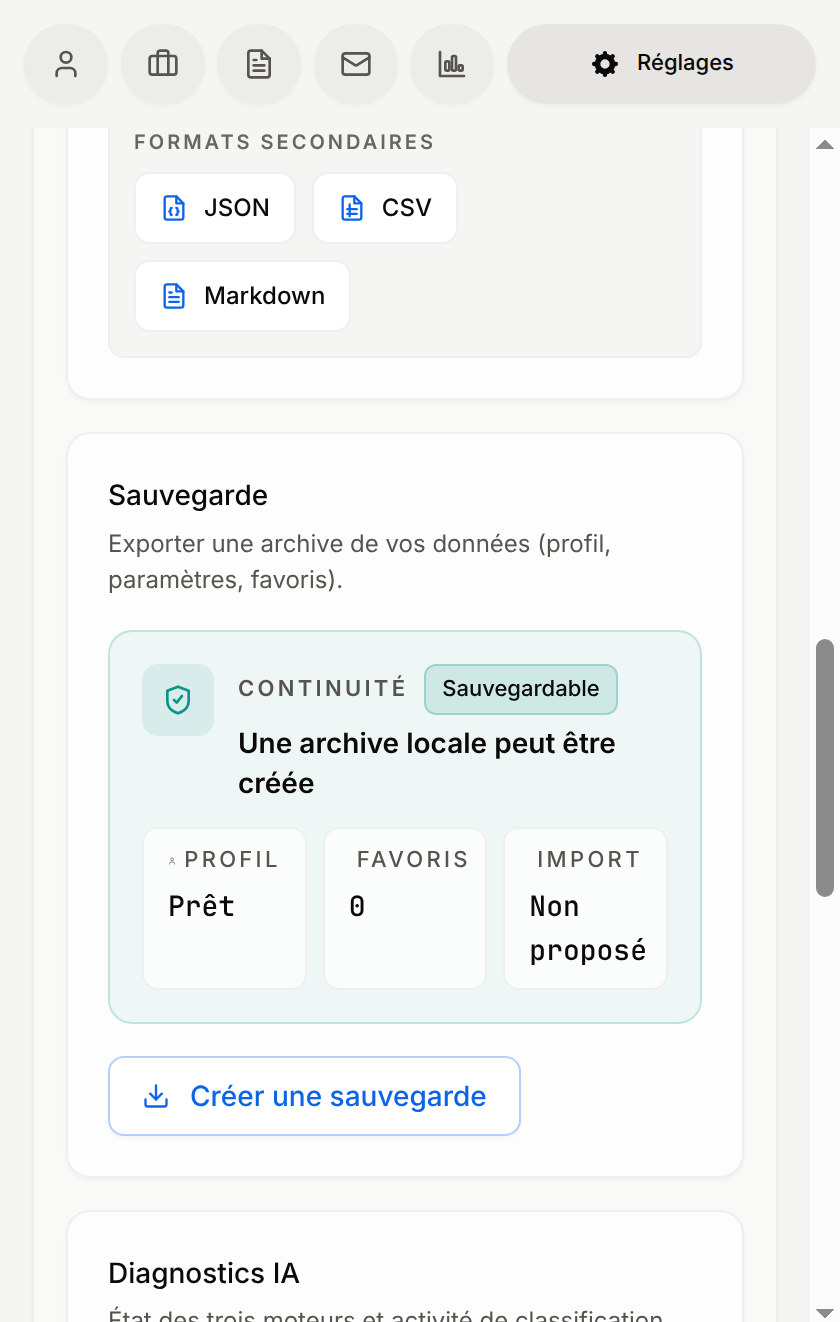
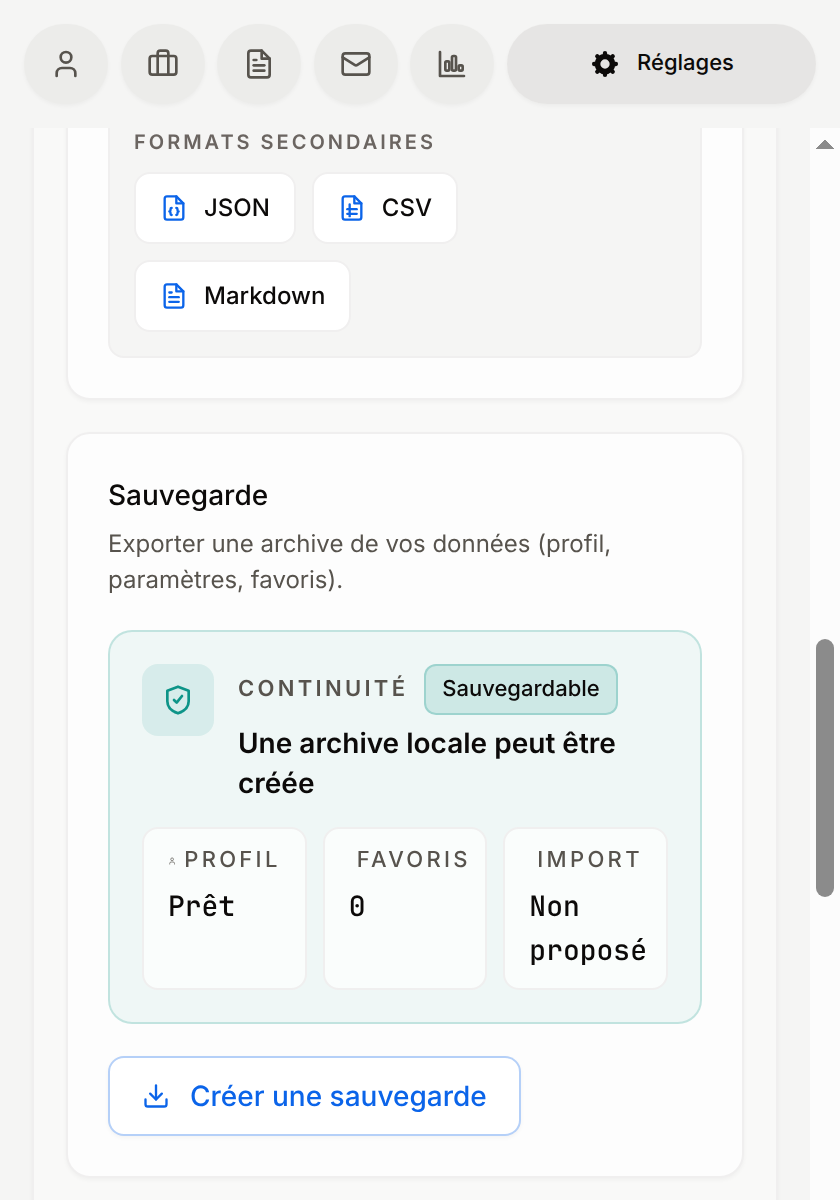
fix(store-screenshots): crop the 05b panel above Diagnostics IA (#443)
The committed 2× source is now 840×1200, so Diagnostics IA is not in the
file. Direction A still writes to docs/store-screenshots/0.2.5-dirA/ and
recomposition of that screen matches the existing final byte for byte.

diff --git a/scripts/store-screenshots/compose_final.py b/scripts/store-screenshots/compose_final.py
@@ -4,9 +4,11 @@
 Direction B (default, ``pnpm store-screenshots:final``) writes the approved
 1280×800 finals to ``docs/store-screenshots/0.2.5/final/``, plus ``board.png``.
 
-Direction A (``pnpm store-screenshots:final:a``) writes the design-spec
-frames to ``docs/store-screenshots/0.2.5-dirA/``. It reads the 2× panel
-crops in ``0.2.5-dirA/panel/`` (840×1322). Loupe ``source`` rects are 1×
+Direction A (``pnpm store-screenshots:final:a``) writes its output frames
+to ``docs/store-screenshots/0.2.5-dirA/``. It reads the 2× panel crops in
+``docs/store-screenshots/0.2.5-dirA/panel/``. Full panels are 840×1322.
+``05b-local-privacy.png`` is stored already cropped to 840×1200 so
+« Diagnostics IA » is not in the file. Loupe ``source`` rects are 1×
 coordinates and are multiplied by the detected input scale. A 2× panel uses
 panel scale 0.475 (0.95/2) and loupe scale 0.65 (1.3/2), which keeps the
 same rendered sizes as 1×.
@@ -387,23 +389,31 @@ def require_mapping(spec: dict[str, object], key: str) -> dict[str, object]:
     return value
 
 
-def detect_input_scale(image: Image.Image) -> int:
-    """Return the integer pixel scale of a panel crop (1× is 420×661, 2× is 840×1322)."""
-    logical_w, logical_h = LOGICAL_PANEL
+def detect_input_scale(
+    image: Image.Image,
+    logical_heights: tuple[int, ...] = (LOGICAL_PANEL[1],),
+) -> int:
+    """Return the integer pixel scale of a panel crop (1× is 420×661, 2× is 840×1322).
+
+    Height may also match a declared bottom crop, such as 05b at 600×scale
+    (1200px when the input is 2×).
+    """
+    logical_w = LOGICAL_PANEL[0]
     scale_x = image.width / logical_w
-    scale_y = image.height / logical_h
     nearest = round(scale_x)
-    if (
-        nearest < 1
-        or abs(scale_x - nearest) > 0.03
-        or abs(scale_y - nearest) > 0.03
-        or abs(scale_x - scale_y) > 0.03
-    ):
+    if nearest < 1 or abs(scale_x - nearest) > 0.03:
         raise SystemExit(
-            f"Panel is {image.size[0]}×{image.size[1]}, expected an integer multiple of "
-            f"{logical_w}×{logical_h} (measured scale x={scale_x:.3f} y={scale_y:.3f})."
+            f"Panel is {image.size[0]}×{image.size[1]}, expected a width that is an integer "
+            f"multiple of {logical_w} (measured scale x={scale_x:.3f})."
         )
-    return nearest
+    for logical_h in logical_heights:
+        scale_y = image.height / logical_h
+        if abs(scale_y - nearest) <= 0.03:
+            return nearest
+    expected = ", ".join(str(logical_h * nearest) for logical_h in logical_heights)
+    raise SystemExit(
+        f"Panel is {image.size[0]}×{image.size[1]}, expected height {expected} at {nearest}×."
+    )
 
 
 def markup_runs(text: str) -> list[tuple[str, bool]]:
@@ -581,8 +591,11 @@ def compose_loupe_slide(panel_image: Image.Image, spec: dict[str, object]) -> tu
     tint = rgb(canvas_spec["tint"])
     tint_width = int(canvas_spec["tint_width"])
     full = panel_image.convert("RGBA")
-    input_scale = detect_input_scale(full)
     crop_bottom = spec.get("crop_bottom")
+    logical_heights = [LOGICAL_PANEL[1]]
+    if isinstance(crop_bottom, int):
+        logical_heights.append(crop_bottom)
+    input_scale = detect_input_scale(full, tuple(logical_heights))
     if isinstance(crop_bottom, int):
         cut = int(round(crop_bottom * input_scale))
         full = full.crop((0, 0, full.width, cut))
